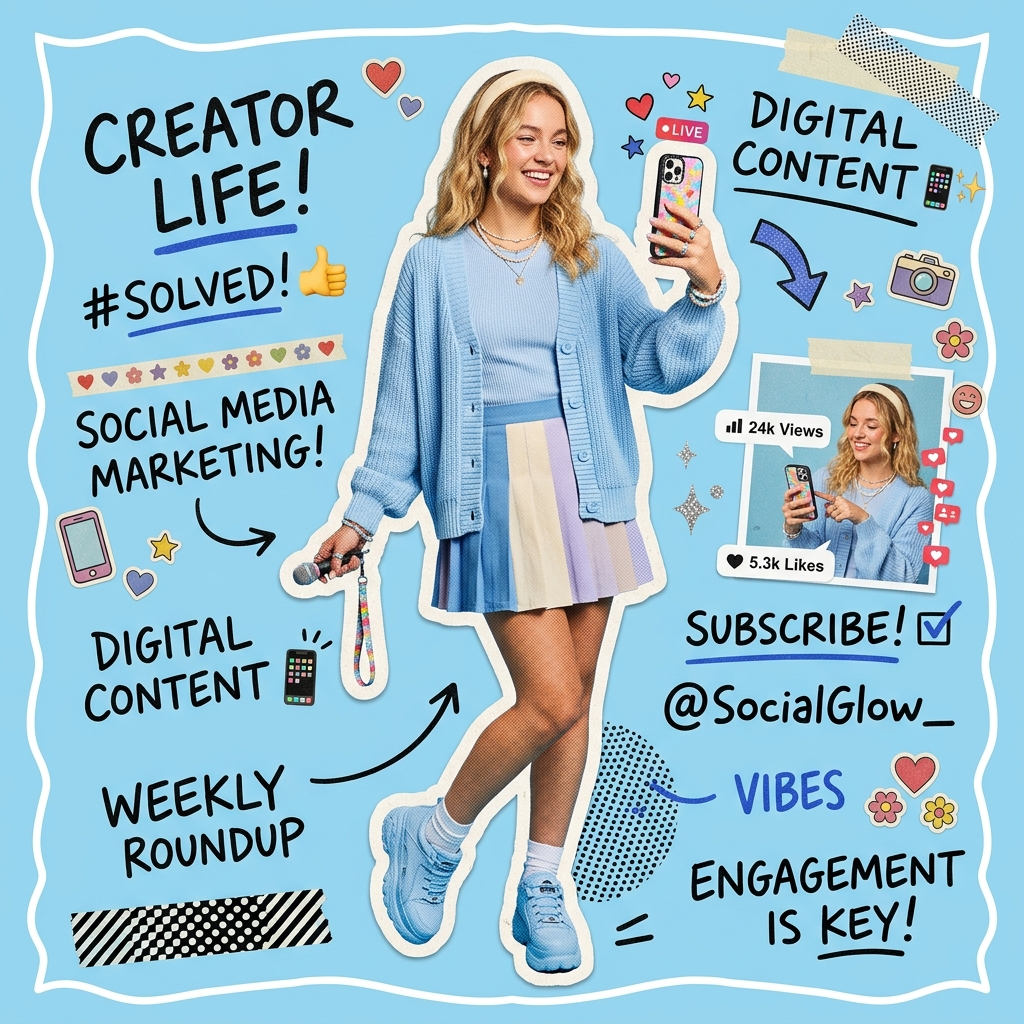
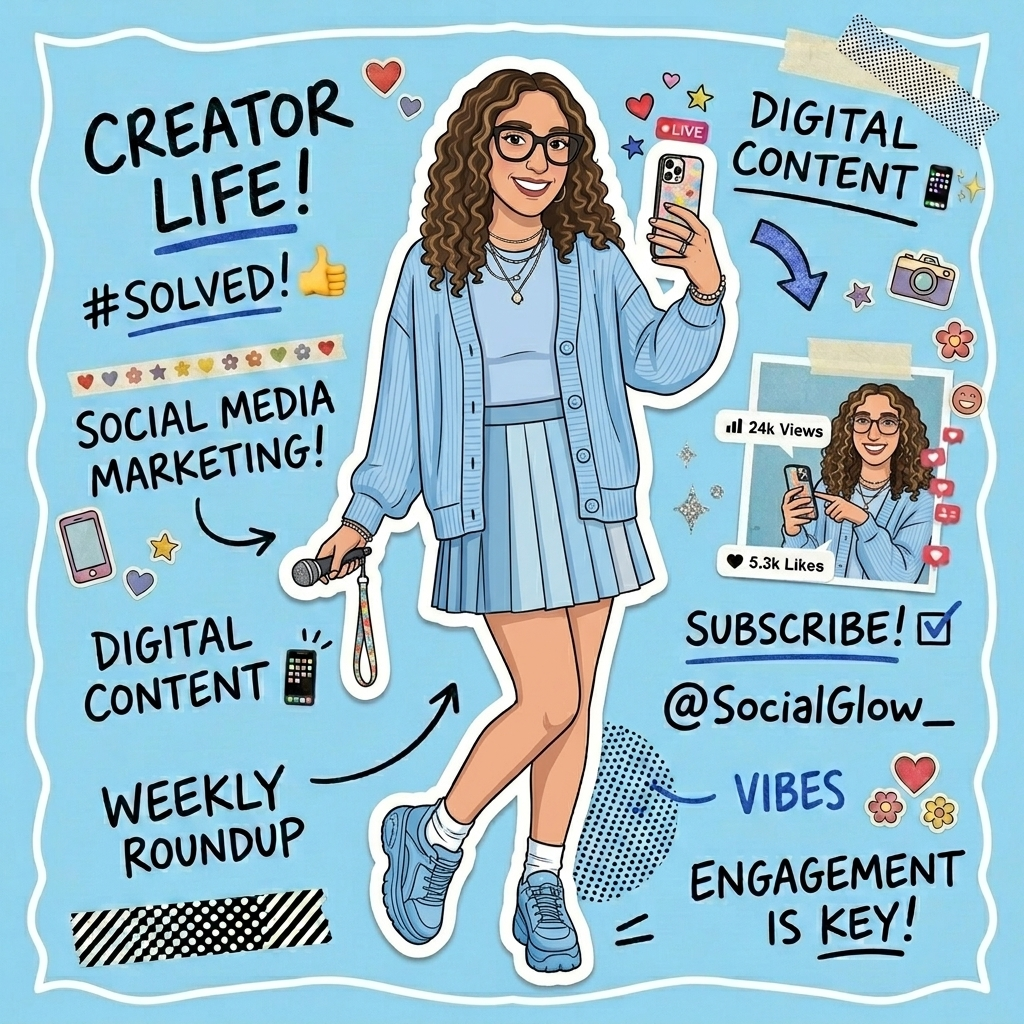
fg

diff --git a/index.html b/index.html
@@ -39,28 +39,6 @@
         <li><a href="#certificates" class="nav-link">Certificates</a></li>
         <li><a href="#contact" class="nav-link">Contact</a></li>
       </ul>
-
-      <div class="nav-actions">
-        <!-- Theme Toggle Switch -->
-        <button class="theme-toggle" id="theme-toggle" aria-label="Temayı Değiştir">
-          <!-- Moon Icon (For Dark Cocoa theme) -->
-          <svg class="moon-icon" viewBox="0 0 24 24" fill="currentColor">
-            <path d="M21 12.79A9 9 0 1 1 11.21 3 7 7 0 0 0 21 12.79z"></path>
-          </svg>
-          <!-- Sun Icon (For Vanilla Latte theme) -->
-          <svg class="sun-icon" viewBox="0 0 24 24" fill="none" stroke="currentColor" stroke-width="2.5" stroke-linecap="round" stroke-linejoin="round">
-            <circle cx="12" cy="12" r="5"></circle>
-            <line x1="12" y1="1" x2="12" y2="3"></line>
-            <line x1="12" y1="21" x2="12" y2="23"></line>
-            <line x1="4.22" y1="4.22" x2="5.64" y2="5.64"></line>
-            <line x1="18.36" y1="18.36" x2="19.78" y2="19.78"></line>
-            <line x1="1" y1="12" x2="3" y2="12"></line>
-            <line x1="21" y1="12" x2="23" y2="12"></line>
-            <line x1="4.22" y1="19.78" x2="5.64" y2="18.36"></line>
-            <line x1="18.36" y1="5.64" x2="19.78" y2="4.22"></line>
-          </svg>
-        </button>
-      </div>
     </div>
   </header>
 
@@ -71,7 +49,7 @@
       <div class="hero-visual reveal active">
         <div class="polaroid-frame">
           <div class="polaroid-image-box">
-            <img src="assets/images/alara_profile.png" alt="Alara Soysan Portrait">
+            <img src="assets/images/alara_profile.jpg" alt="Alara Soysan Portrait">
           </div>
           <div class="polaroid-caption">Alara Soysan, 2026</div>
         </div>
@@ -210,7 +188,7 @@
         <!-- Specialty 1 -->
         <div class="specialty-panel">
           <div class="specialty-frame">
-            <img src="assets/images/specialty_social.png" alt="Social Media Content Outfitted Representation">
+            <img src="assets/images/specialty_social.png?v=2" alt="Social Media Content Outfitted Representation">
           </div>
           <h3 class="specialty-title">Social Content</h3>
           <p class="specialty-desc">Görsel anlatı stratejileri, Instagram ızgara yerleşimleri ve estetik post tasarımları.</p>
@@ -220,7 +198,7 @@
         <!-- Specialty 2 -->
         <div class="specialty-panel">
           <div class="specialty-frame">
-            <img src="assets/images/specialty_seo.png" alt="SEO Outfitted Representation">
+            <img src="assets/images/specialty_seo.png?v=2" alt="SEO Outfitted Representation">
           </div>
           <h3 class="specialty-title">SEO & Digital Ad</h3>
           <p class="specialty-desc">Anahtar kelime stratejileri, Google Analytics entegrasyonu ve dijital kampanya kurulumu.</p>
@@ -230,7 +208,7 @@
         <!-- Specialty 3 -->
         <div class="specialty-panel">
           <div class="specialty-frame">
-            <img src="assets/images/specialty_branding.png" alt="Employer Branding Outfitted Representation">
+            <img src="assets/images/specialty_branding.png?v=2" alt="Employer Branding Outfitted Representation">
           </div>
           <h3 class="specialty-title">Employer Branding</h3>
           <p class="specialty-desc">Şirket içi marka algısının güçlendirilmesi ve employer branding içerik üretim süreçleri.</p>
@@ -593,7 +571,7 @@
               <p>Mindfulness</p>
             </div>
             <div class="polaroid-pile-item pile-2">
-              <img src="assets/images/alara_profile.png" alt="Alara Soysan Profile">
+              <img src="assets/images/alara_profile.jpg" alt="Alara Soysan Profile">
               <p>Let's talk!</p>
             </div>
           </div>

diff --git a/app.js b/app.js
@@ -87,13 +87,15 @@ function initTheme() {
   // Set default theme
   document.documentElement.setAttribute("data-theme", storedTheme);
   
-  themeToggle.addEventListener("click", () => {
-    const currentTheme = document.documentElement.getAttribute("data-theme");
-    const newTheme = currentTheme === "dark" ? "light" : "dark";
-    
-    document.documentElement.setAttribute("data-theme", newTheme);
-    localStorage.setItem("theme", newTheme);
-  });
+  if (themeToggle) {
+    themeToggle.addEventListener("click", () => {
+      const currentTheme = document.documentElement.getAttribute("data-theme");
+      const newTheme = currentTheme === "dark" ? "light" : "dark";
+      
+      document.documentElement.setAttribute("data-theme", newTheme);
+      localStorage.setItem("theme", newTheme);
+    });
+  }
 }
 
 // 2. Navigation Control (Sticky Header & Active Link Tracking)

diff --git a/styles.css b/styles.css
@@ -163,7 +163,7 @@ header.scrolled {
   display: flex;
   justify-content: space-between;
   align-items: center;
-  max-width: 1200px;
+  max-width: 1400px;
   margin: 0 auto;
   padding: 0 2rem;
 }
